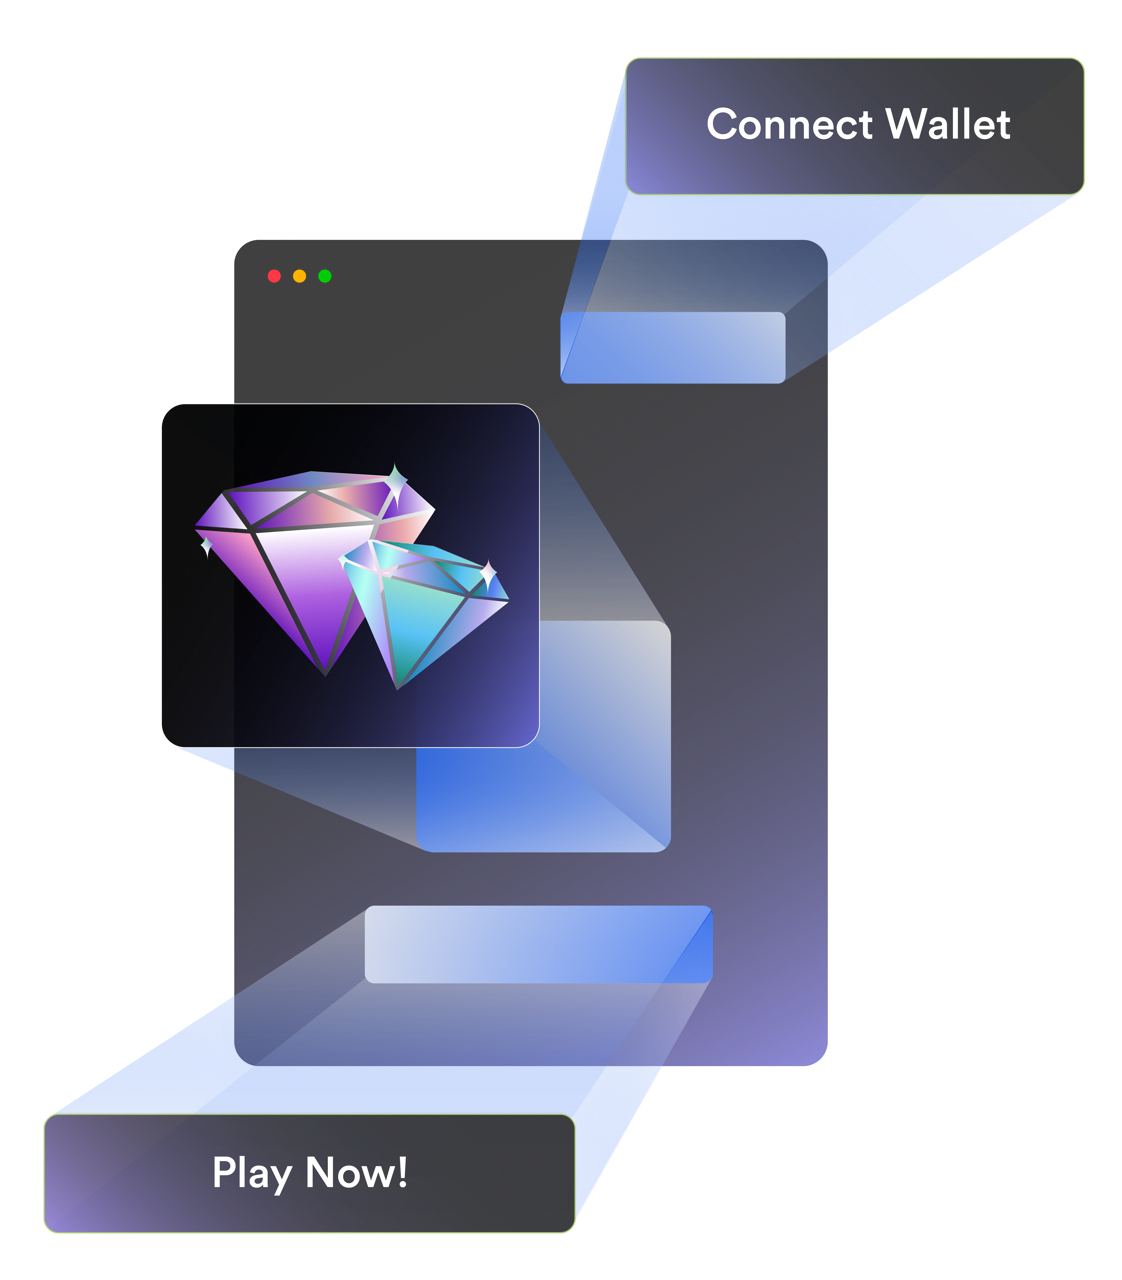
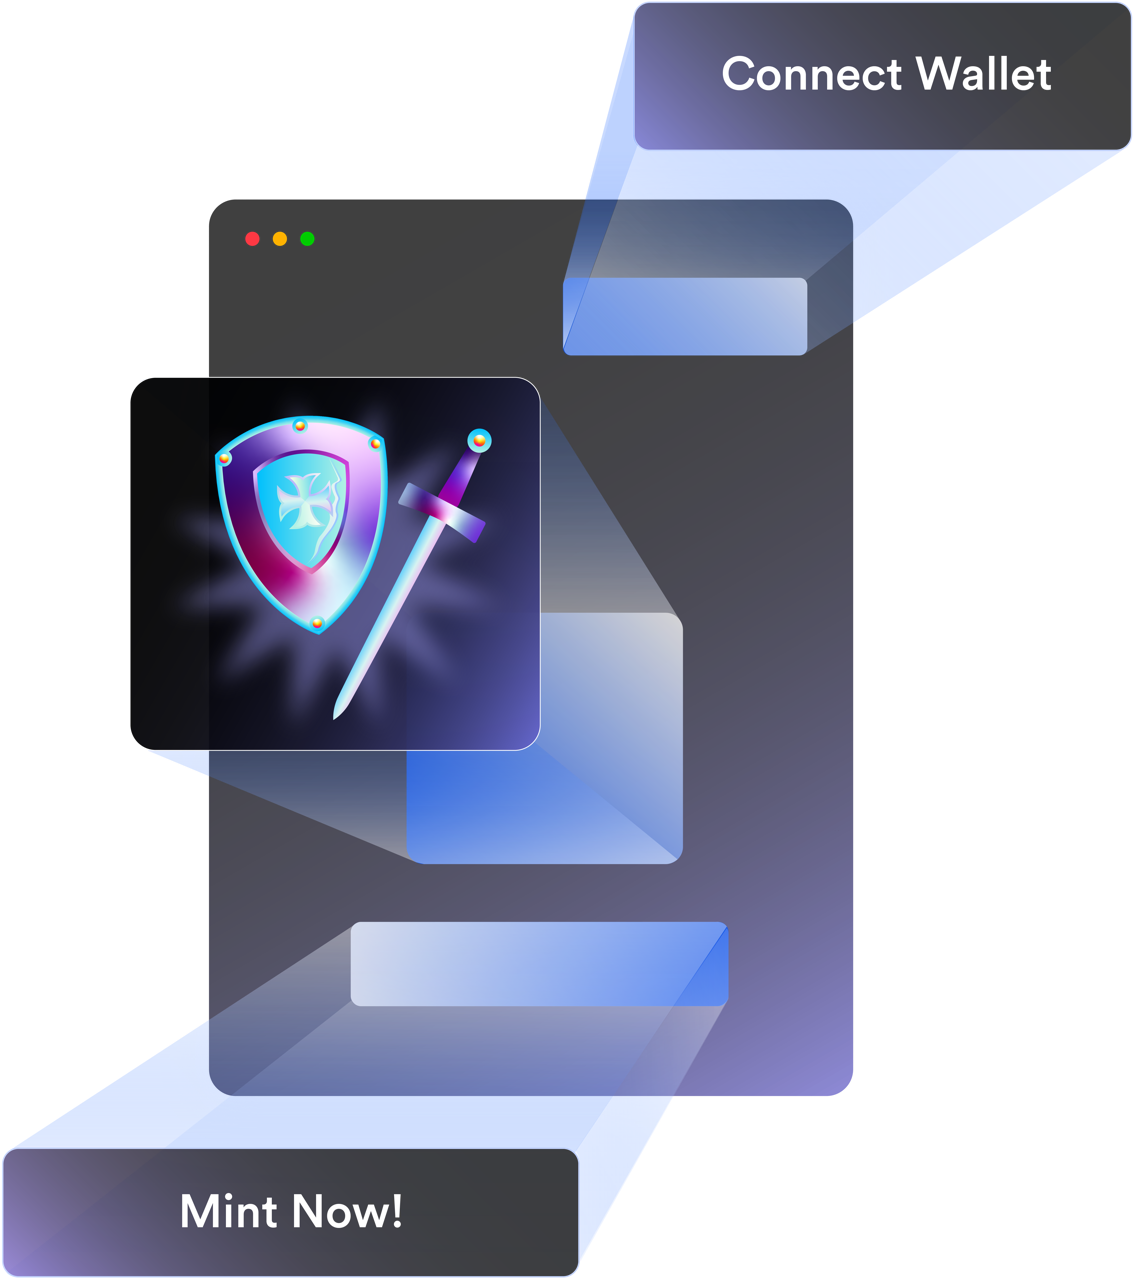
MintingKit: content updates

Changed region(s): [[0.0, 0.0, 0.9982, 1.0]]

diff --git a/pages/solutions/minting.tsx b/pages/solutions/minting.tsx
@@ -11,14 +11,12 @@ import { FiArrowRight } from "react-icons/fi";
 import { Card, Heading, Link, LinkButton, Text } from "tw-components";
 import { ThirdwebNextPage } from "utils/types";
 
-const RightIcon = <Icon as={FiArrowRight} />;
-
-type NFTContractInfo = {
+interface NFTContractInfo {
   name: string;
   description: string;
   img: string;
   link: string;
-};
+}
 
 const exploreNFTContracts: NFTContractInfo[] = [
   {
@@ -30,7 +28,7 @@ const exploreNFTContracts: NFTContractInfo[] = [
   },
   {
     name: "ERC4907",
-    description: "Rental NFT, ERC-721 User And Expires Extension",
+    description: "Rental NFT, ERC-721 User And Expires Extension.",
     img: "https://gateway.ipfscdn.io/ipfs/QmaKC631DSxDtjDcveAFVuGpSwM84icnXSGQgqrLpw3Lkh/yellow%E2%80%94360x360.png",
     link: "/doubledev.eth/ERC4907?via=/explore",
   },
@@ -42,22 +40,22 @@ const exploreNFTContracts: NFTContractInfo[] = [
   },
   {
     name: "Edition",
-    description: "Create editions of ERC1155 tokens",
+    description: "Create editions of ERC1155 tokens.",
     img: "https://gateway.ipfscdn.io/ipfs/QmQm3UytP51wWMMwmDYdDHH4vCdokPqt52bUtBQoLsx5qy/edition.png",
     link: "/thirdweb.eth/TokenERC1155?via=/explore",
   },
   {
     name: "ERC721CommunityStream",
-    description: "Equally distribute any token to community of NFT holders",
+    description: "Equally distribute any token to community of NFT holders.",
     img: "https://gateway.ipfscdn.io/ipfs/QmbGjq5DY6gW1T7W7j3HEgYSAB2g4TnpzrNADTuniDXsqU/0.png",
     link: "/flairsdk.eth/ERC721CommunityStream?via=/explore",
   },
   {
     name: "Pack",
     description:
-      "Pack multiple tokens into ERC1155 NFTs that act as randomized loot boxes",
+      "Pack multiple tokens into ERC1155 NFTs that act as randomized loot boxes.",
     img: "https://gateway.ipfscdn.io/ipfs/QmaLYhDh2oKxSjAS6iA434z8fvY43oAEug2AHHEMYMBU3K/pack.png",
-    link: "https://thirdweb.com/thirdweb.eth/Pack?via=/explore",
+    link: "/thirdweb.eth/Pack?via=/explore",
   },
 ];
 
@@ -87,7 +85,7 @@ const Minting: ThirdwebNextPage = () => {
     <ProductPage
       seo={{
         title: "Minting | Solutions",
-        description: "Create powerful NFT experiences at scale",
+        description: "Build and mint NFTs at scale easily",
         // @TODO
         // openGraph: {
         //   images: [
@@ -102,7 +100,6 @@ const Minting: ThirdwebNextPage = () => {
       }}
     >
       <Hero
-        trackingCategory="minting_kit"
         name="MintingKit"
         title="Build and mint NFTs at scale easily"
         description={
@@ -111,7 +108,9 @@ const Minting: ThirdwebNextPage = () => {
             Create powerful NFT experiences.
           </>
         }
+        trackingCategory="minting_kit"
         buttonText="Get started"
+        type="Solutions"
         buttonLink="https://portal.thirdweb.com/pre-built-contracts/choosing-the-right-pre-built-contract"
         gradient="linear-gradient(145.96deg, rgba(205, 0, 238, 1) 5.07%, #1652F0 100%)"
         image={require("public/assets/solutions-pages/minting/hero.png")}
@@ -126,7 +125,8 @@ const Minting: ThirdwebNextPage = () => {
             title="Owned by you"
             icon={require("/public/assets/product-pages/extensions/hero-icon-1.png")}
           >
-            All contracts are non-custodial and 100% owned by your wallet
+            Apps and contracts built with our tools are completely owned by you.
+            No other parties have control over your apps and contracts.
           </ProductCard>
           <ProductCard
             title="Minting for all use cases"
@@ -312,7 +312,7 @@ const Minting: ThirdwebNextPage = () => {
             flexShrink={0}
             size="sm"
             isExternal
-            rightIcon={RightIcon}
+            rightIcon={<Icon as={FiArrowRight} />}
             variant="link"
             href={`/explore/nft`}
             fontWeight={500}

diff --git a/components/product-pages/common/SolutionsTextImage.tsx b/components/product-pages/common/SolutionsTextImage.tsx
@@ -33,7 +33,7 @@ export const SolutionsTextImage: ComponentWithChildren<
         />
 
         <Flex flexDir="column" gap={4}>
-          <Heading as="h2" size="display.sm" mb={4}>
+          <Heading as="h2" size="title.xl" mb={4}>
             {title}
           </Heading>
           {children}
